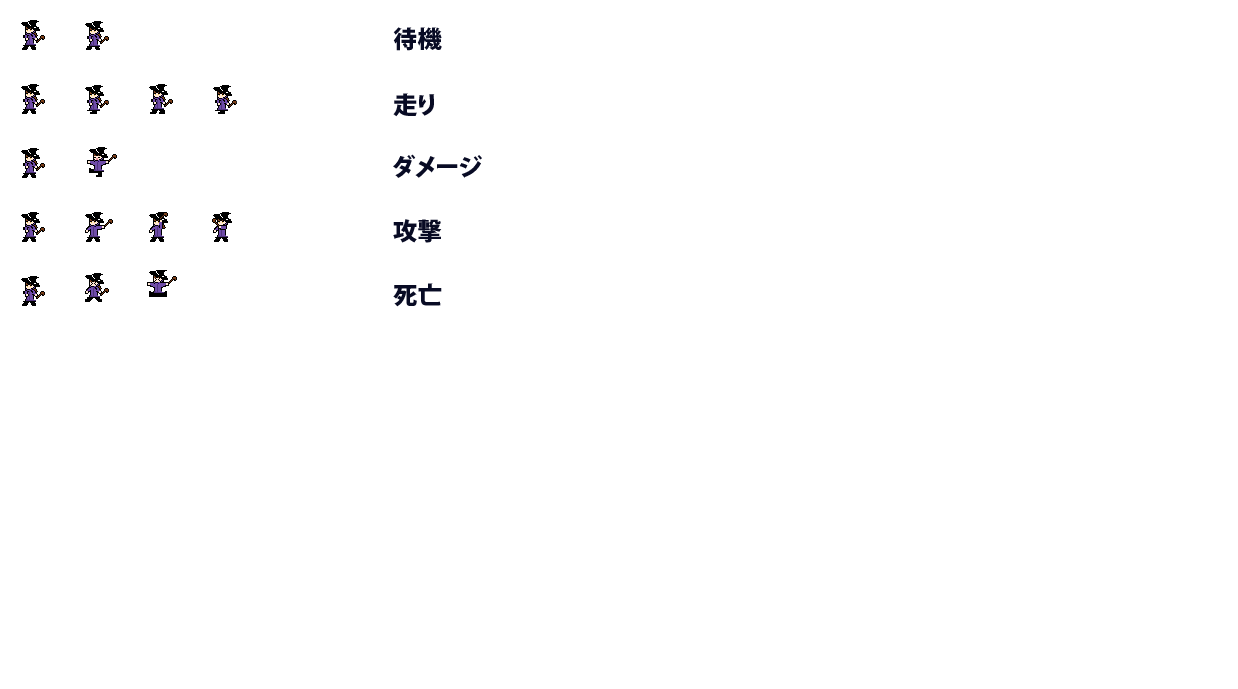
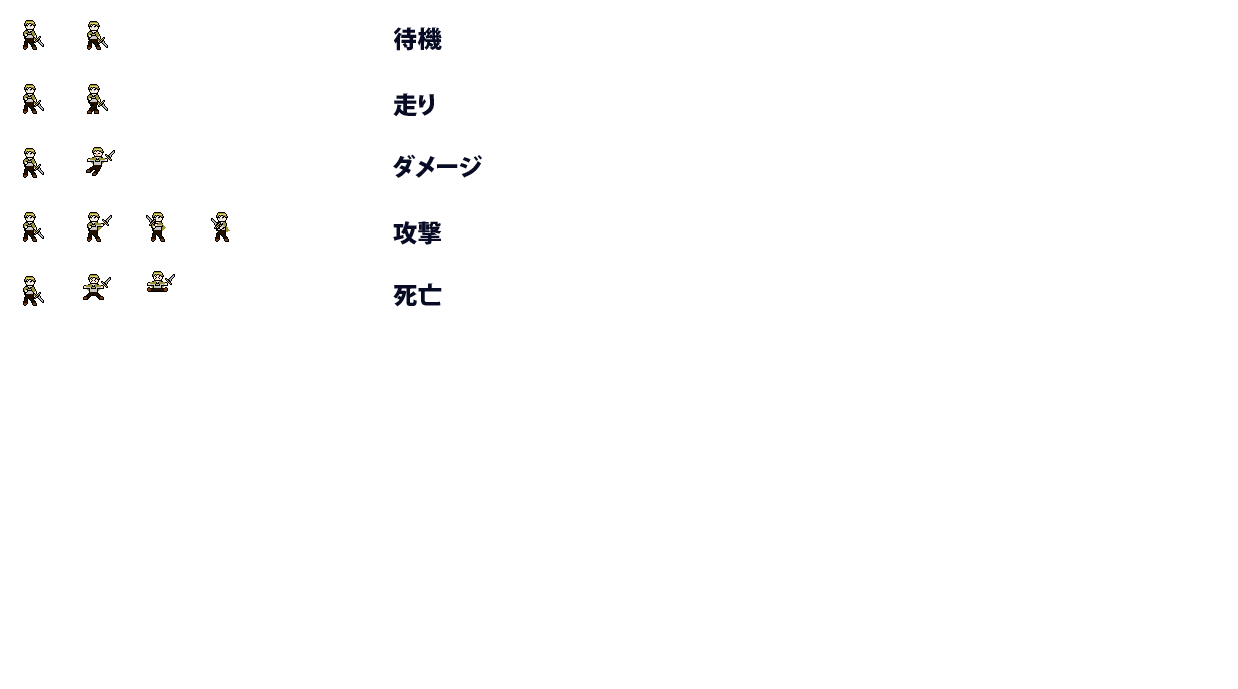
奥行き(z軸)追加 敵の動きを↑に合わせて変更 剣士のアニメーション追加

diff --git a/GameProject/Project/GameProject/Game/Magic.cpp b/GameProject/Project/GameProject/Game/Magic.cpp
@@ -22,7 +22,7 @@ void Magic::Update(){
 void Magic::Draw(){
 	m_img.SetSize(20, 100);
 	m_img.SetCenter(10, 50);
-	m_img.SetPos(GetScreenPos(m_pos));
+	m_img.SetPos(CalcScreenPos());
 	m_img.SetAng(m_ang);
 	m_img.Draw();
 }
